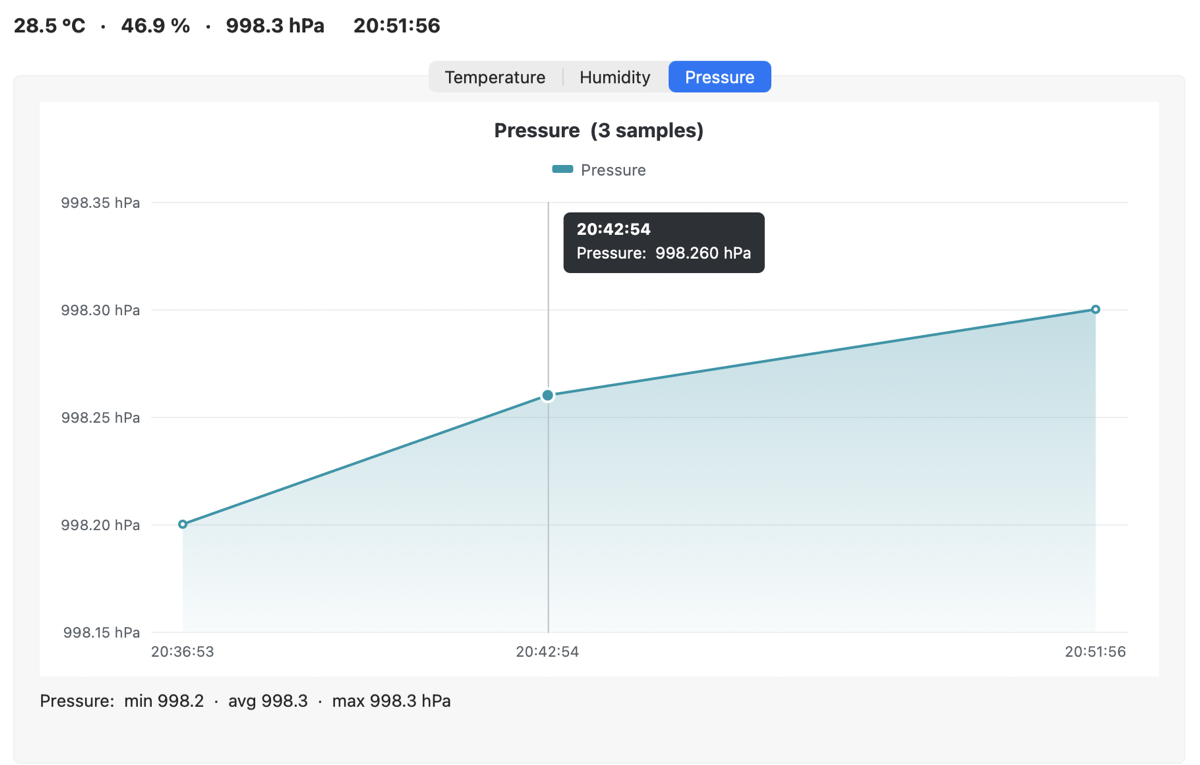
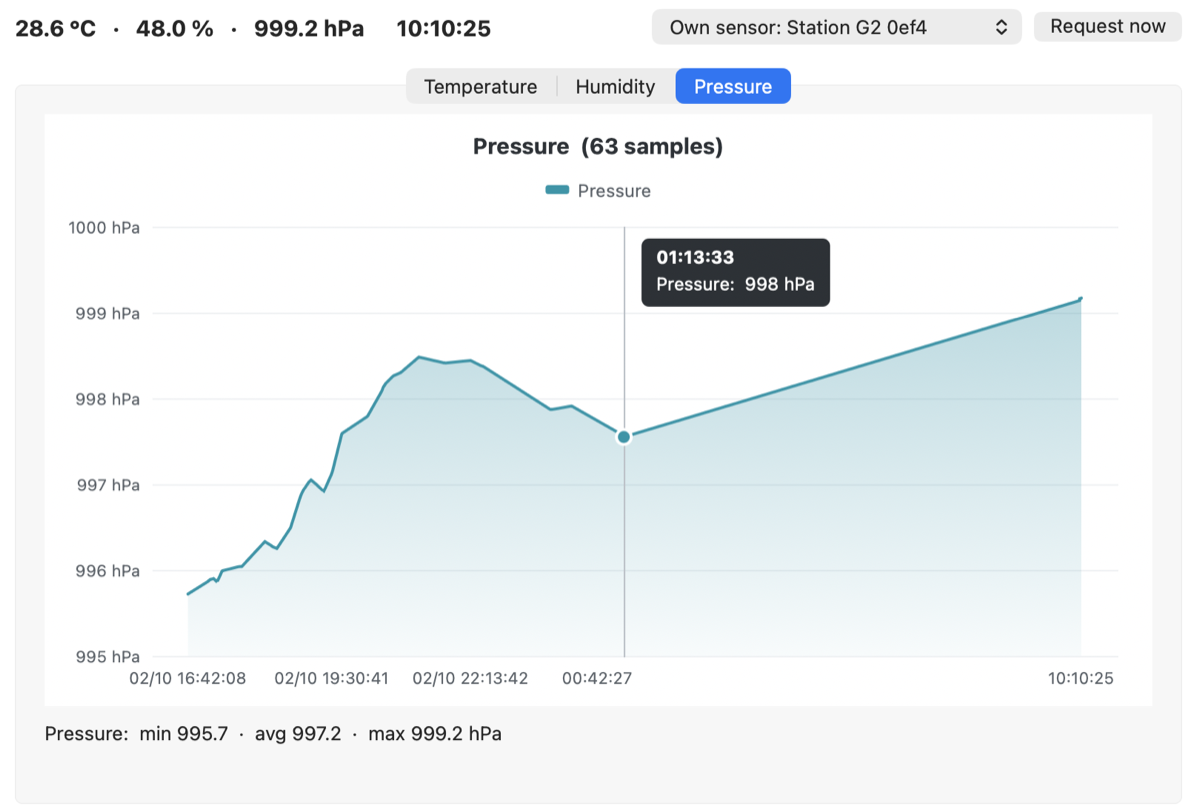
README: device screenshots with history and the node menu
Cropped below the title bar (no node id or address in them).

diff --git a/README.md b/README.md
@@ -12,7 +12,7 @@ There are no plugins, no Python and no external tools. The Meshtastic parts use 
 
 ## Screenshots
 
-A Meshtastic node's own BME680, followed over USB. At the top, the latest values; under each chart, min / avg / max. The value under the mouse shows in a box, and samples sit at their real time, so the 6- and 9-minute gaps here keep their width.
+A Meshtastic node's own BME680, followed over its TCP connection. The window opened with the readings stored since the day before (dated labels), and live ones continue from there. At the top, the latest values, and the menu to chart another node with **Request now**; under each chart, min / avg / max. The value under the mouse shows in a box, and samples sit at their real time, so the overnight gap keeps its width.
 
 ![Temperature chart of a Meshtastic node, with the hover box](docs/screenshots/device-temperature.png)
 
